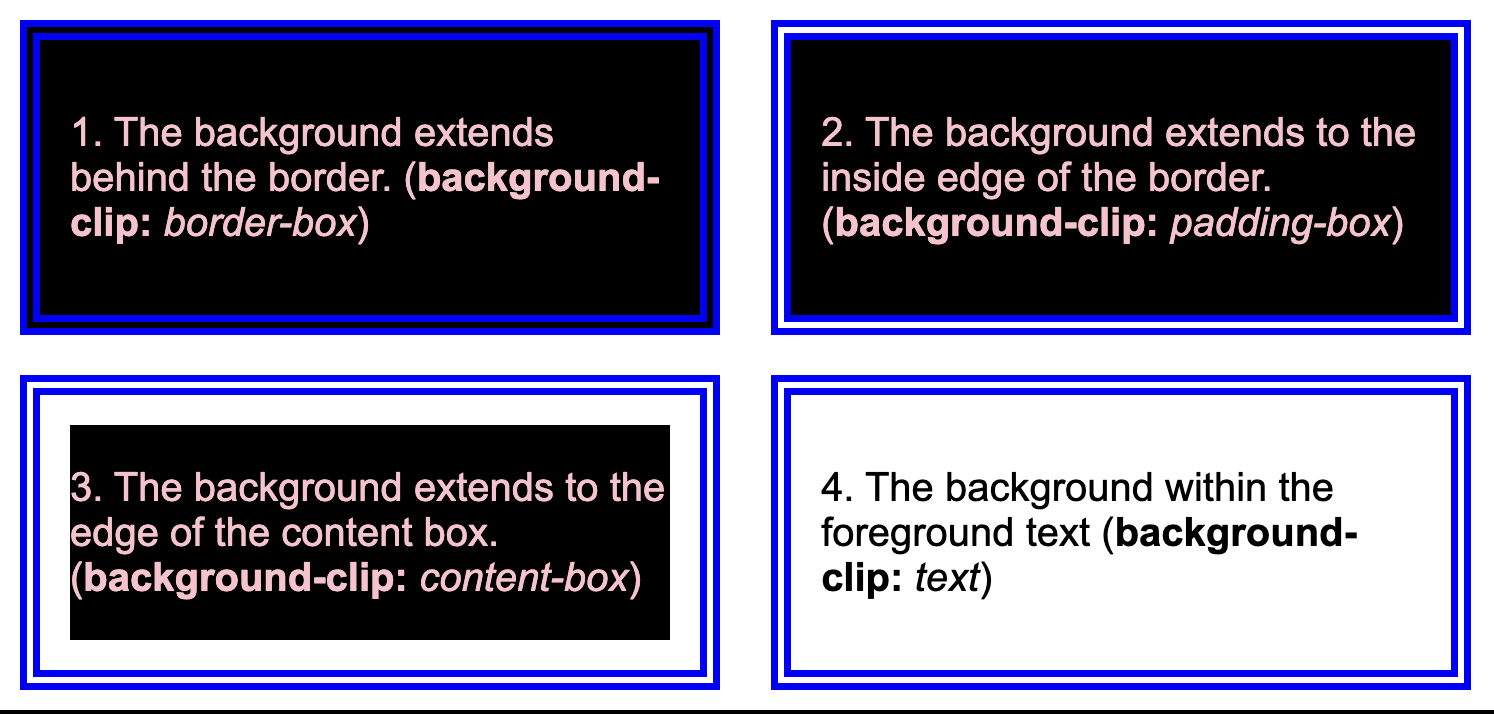
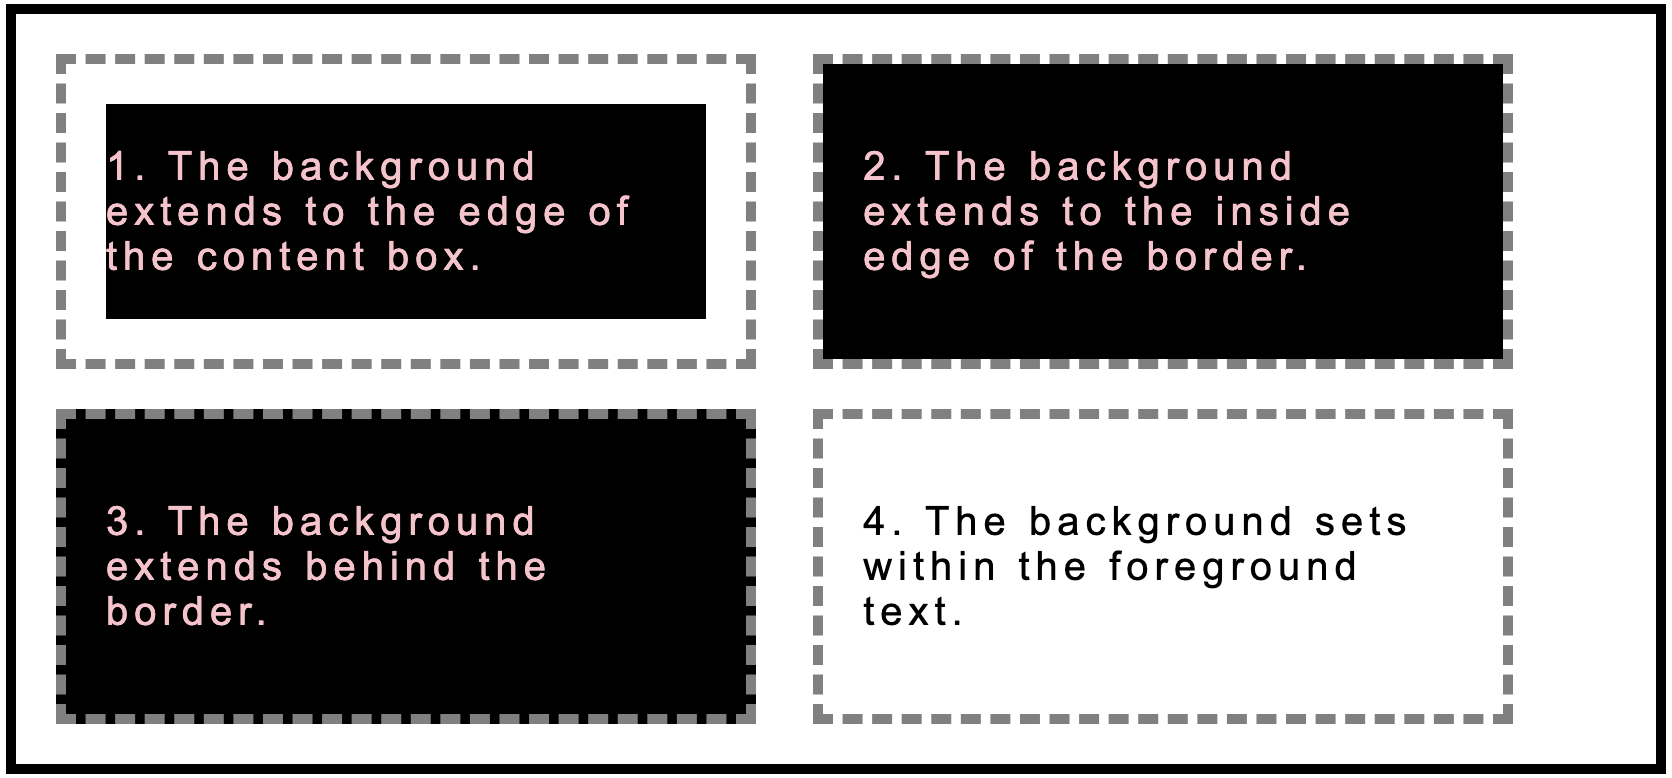
Address the PR review

diff --git a/content/css/concepts/background/terms/background-clip/background-clip.md b/content/css/concepts/background/terms/background-clip/background-clip.md
@@ -30,7 +30,7 @@ Set background to the edge of the content box:
 ```css
 body {
   background: #000000;
-  border: 3px dashed blue;
+  border: 5px dashed grey;
   padding: 20px;
   background-clip: content-box;
 }
@@ -43,7 +43,7 @@ Set background to the inside edge of the border:
 ```css
 body {
   background: #000000;
-  border: 3px dashed blue;
+  border: 5px dashed grey;
   padding: 20px;
   background-clip: padding-box;
 }
@@ -56,7 +56,7 @@ Set background to the edge of the border:
 ```css
 body {
   background: #000000;
-  border: 3px dashed blue;
+  border: 5px dashed grey;
   padding: 20px;
   background-clip: border-box;
 }
@@ -69,6 +69,8 @@ Set background within the foreground text:
 ```css
 body {
   background: #000000;
+  border: 5px dashed grey;
+  padding: 20px;
   background-clip: text;
   color: transparent;
 }
